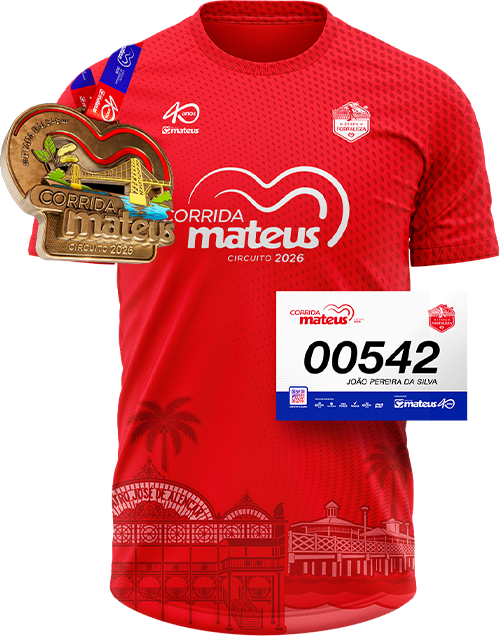
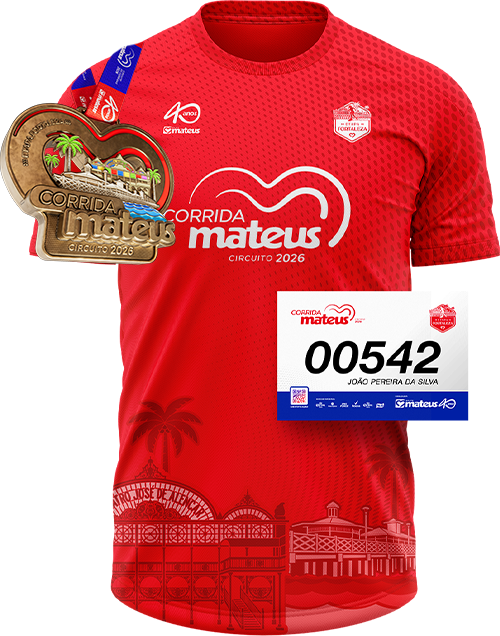
Atualizar imagem do kit de Fortaleza com a medalha da etapa.

diff --git a/index.html b/index.html
@@ -434,7 +434,7 @@
         "São Luís": { w: 506, h: 638, contentCenterY: 319 },
         Teresina: { w: 507, h: 639, contentCenterY: 320 },
         Belém: { w: 488, h: 640, contentCenterY: 320 },
-        Fortaleza: { w: 499, h: 636, contentCenterY: 318 },
+        Fortaleza: { w: 500, h: 636, contentCenterY: 318 },
       };
 
       function getKitBoxHeight() {
